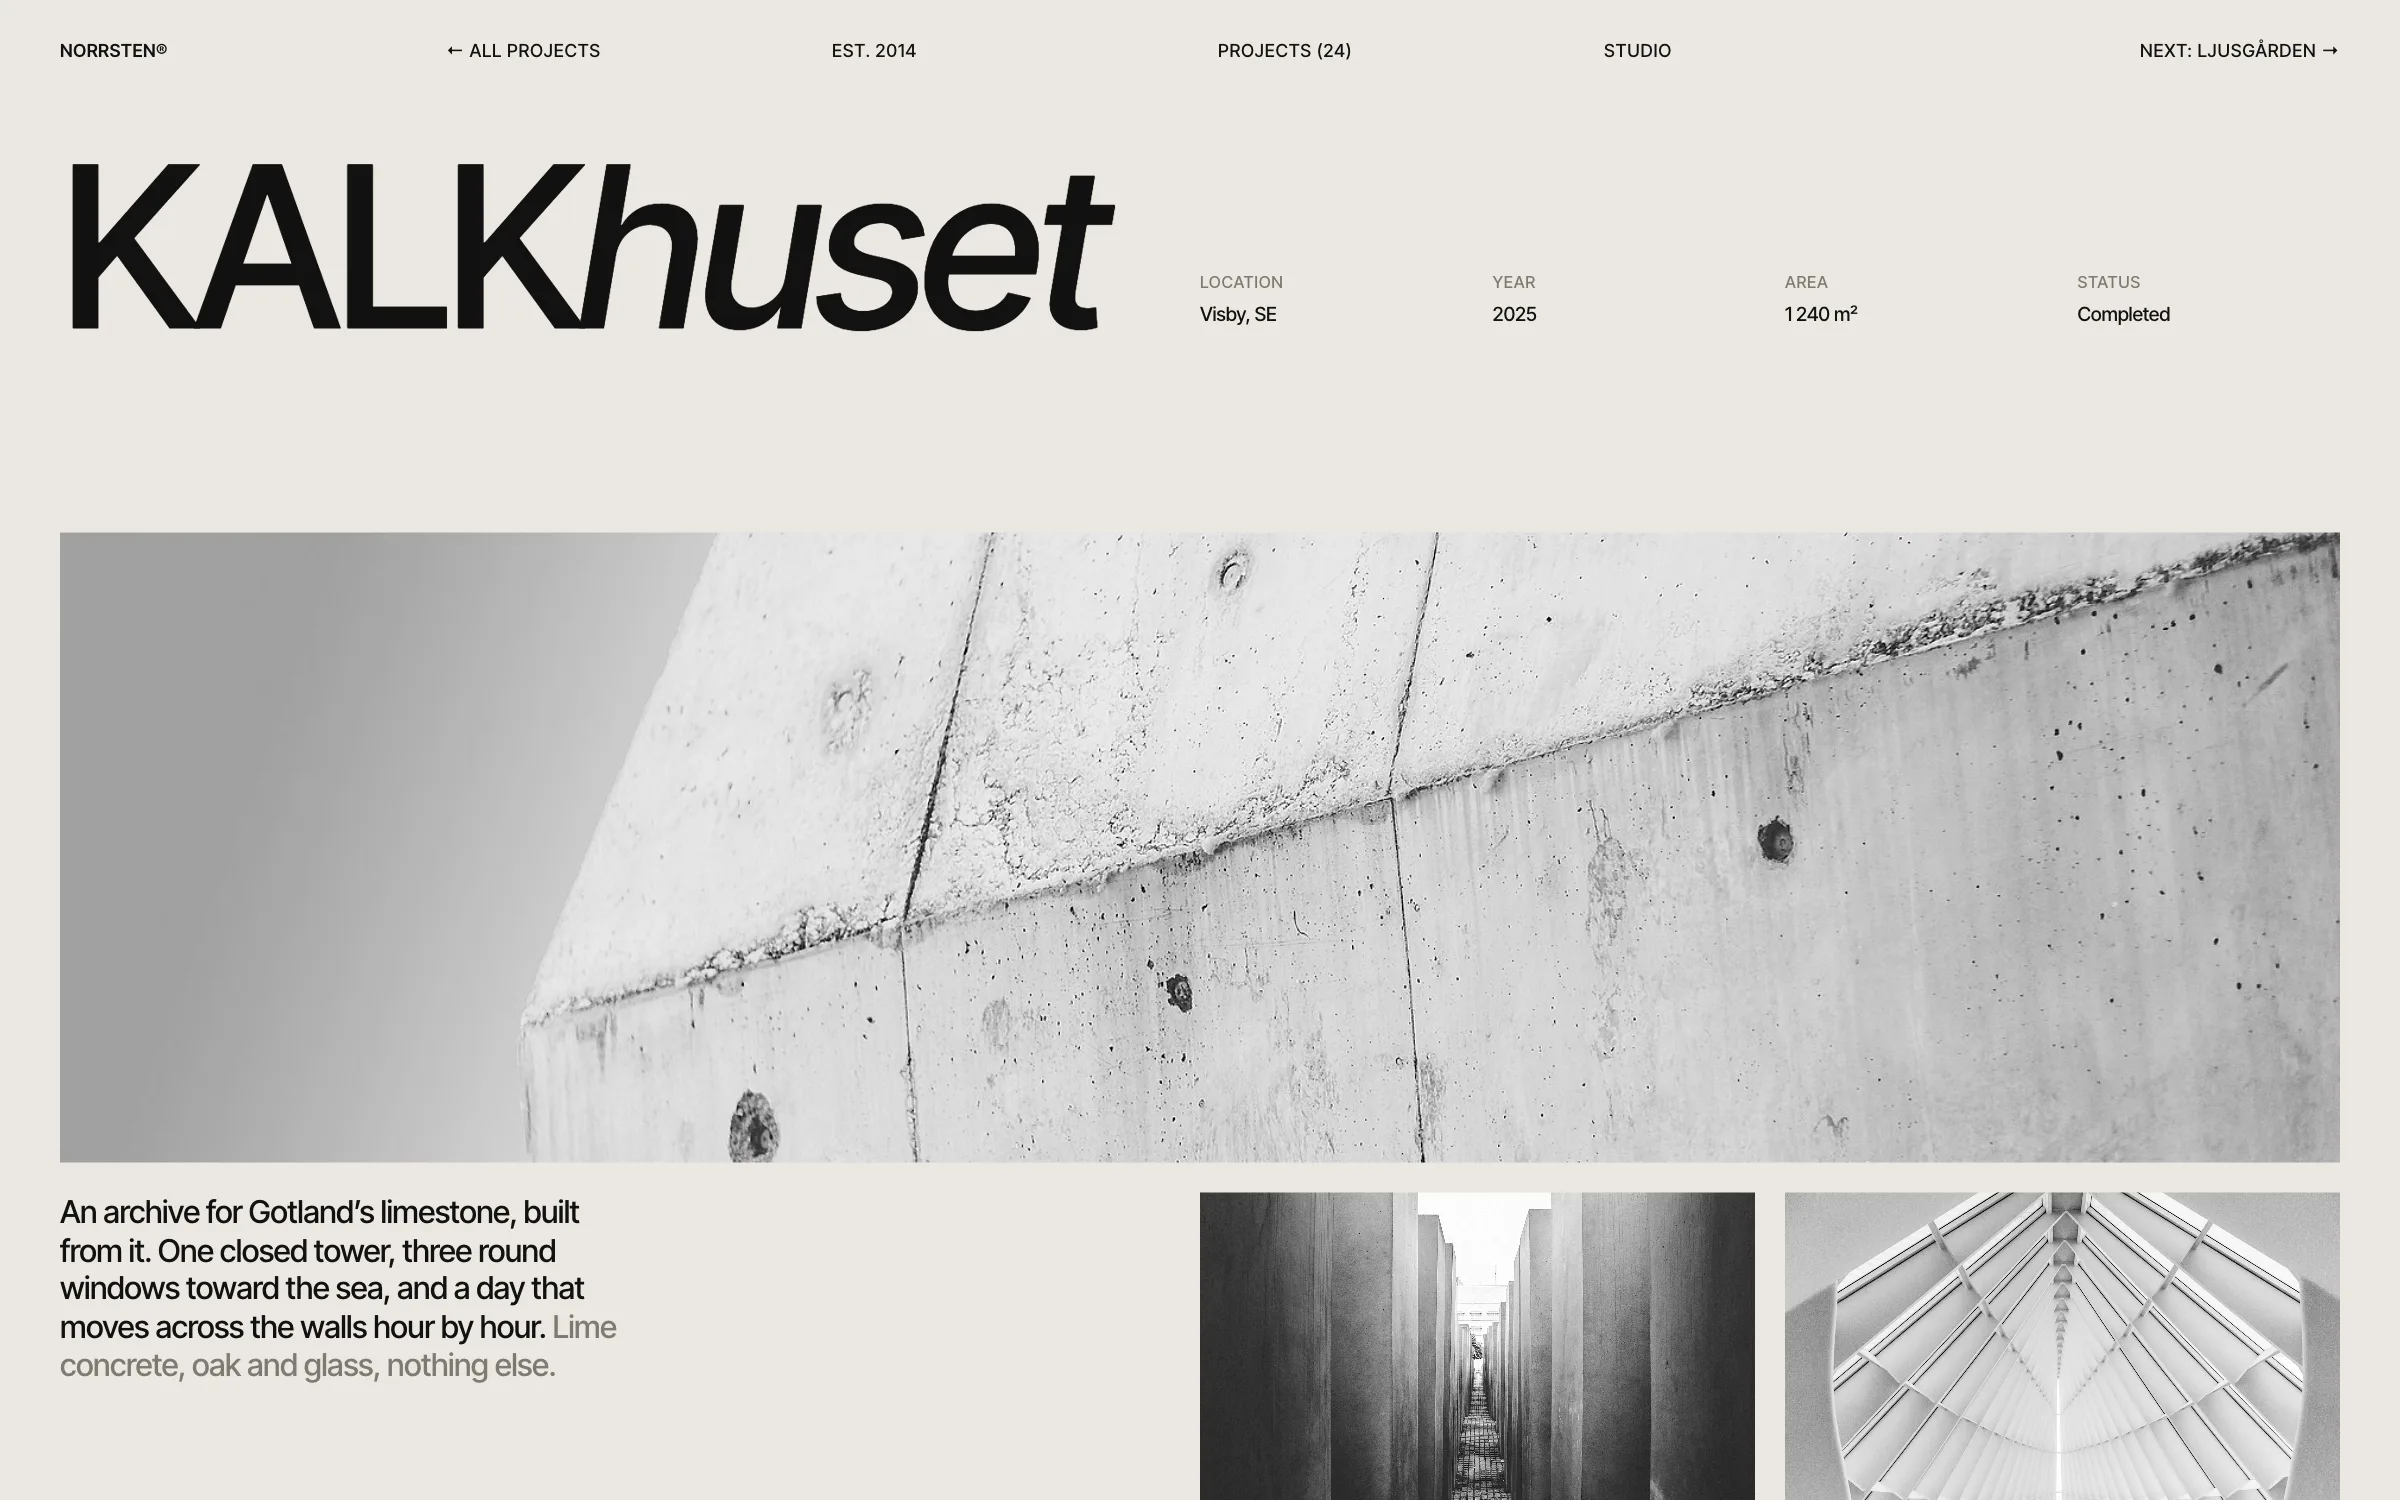
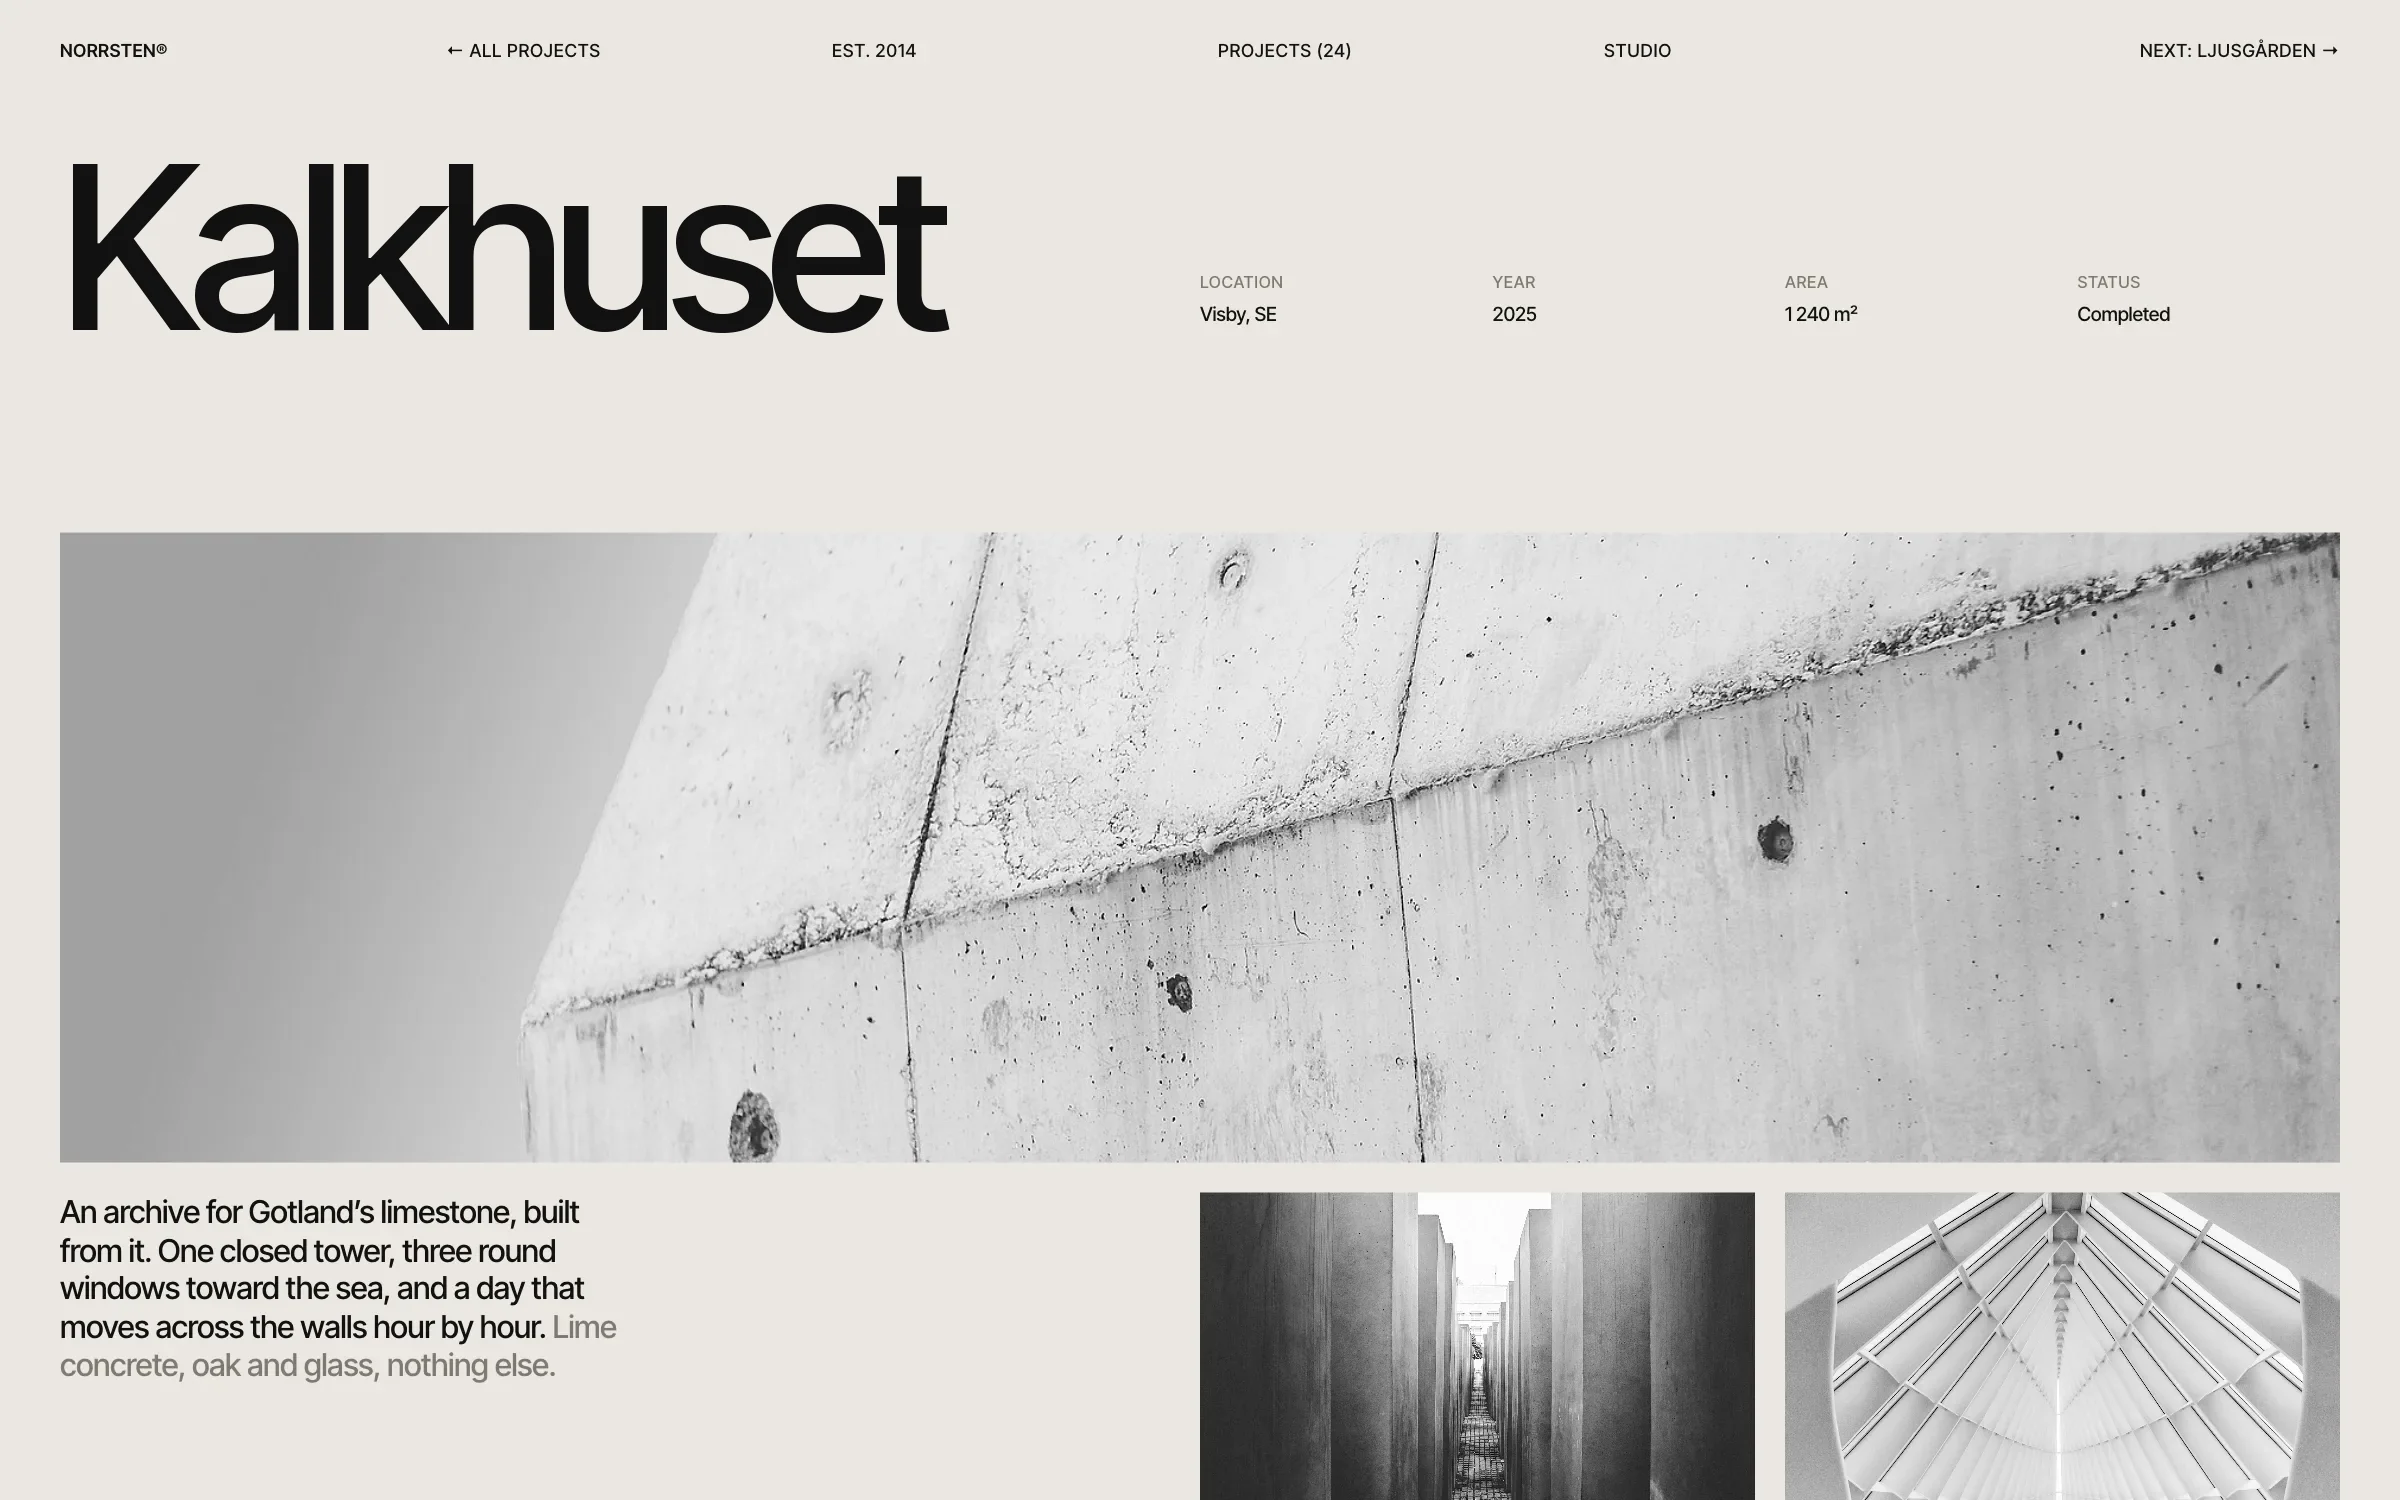
Portfolio v21: Norrsten headings set like Work

Changed region(s): [[0.0625, 0.092, 0.4688, 0.2453]]

diff --git a/work/norrsten/index.html b/work/norrsten/index.html
@@ -51,7 +51,7 @@
         </div>
         <div class="case__part">
           <h2 class="case__label">(The <em>idea</em>)</h2>
-          <p>Build the website the way Norrsten builds houses: few materials, chosen to last. Only black-and-white photography, warm paper instead of white, and one typeface throughout, set huge in tight capitals that turn negative where they cross an image, like light falling across stone.</p>
+          <p>Build the website the way Norrsten builds houses: few materials, chosen to last. Only black-and-white photography, warm paper instead of white, and one typeface throughout, set huge and tight in plain sentence case, turning negative where it crosses an image, like light falling across stone.</p>
         </div>
         <div class="case__part">
           <h2 class="case__label">(The <em>solution</em>)</h2>
@@ -65,23 +65,23 @@
     <!-- gallery (luke-baffait: thumbnails scroll past, the one in the middle grows and fills the big frame) -->
     <section class="case__gallery" aria-label="Images">
       <div class="case__thumbs"><div class="case__thumbs-in">
-        <button type="button" aria-label="Front page"><img src="../../assets/img/work/norrsten/01-home.webp?v=2" alt=""></button>
-        <button type="button" aria-label="Project index"><img src="../../assets/img/work/norrsten/02-projects.webp?v=2" alt=""></button>
-        <button type="button" aria-label="Project page"><img src="../../assets/img/work/norrsten/03-project.webp?v=2" alt=""></button>
-        <button type="button" aria-label="Process page"><img src="../../assets/img/work/norrsten/04-process.webp?v=2" alt=""></button>
-        <button type="button" aria-label="Phones"><img src="../../assets/img/work/norrsten/05-phones.webp?v=2" alt=""></button>
+        <button type="button" aria-label="Front page"><img src="../../assets/img/work/norrsten/01-home.webp?v=3" alt=""></button>
+        <button type="button" aria-label="Project index"><img src="../../assets/img/work/norrsten/02-projects.webp?v=3" alt=""></button>
+        <button type="button" aria-label="Project page"><img src="../../assets/img/work/norrsten/03-project.webp?v=3" alt=""></button>
+        <button type="button" aria-label="Process page"><img src="../../assets/img/work/norrsten/04-process.webp?v=3" alt=""></button>
+        <button type="button" aria-label="Phones"><img src="../../assets/img/work/norrsten/05-phones.webp?v=3" alt=""></button>
       </div></div>
       <figure class="case__sel">
-        <img src="../../assets/img/work/norrsten/01-home.webp?v=2" alt="Norrsten front page: STONE, LIGHT &amp; TIME over a black-and-white photograph">
-        <img src="../../assets/img/work/norrsten/01-home.webp?v=2" alt="" aria-hidden="true">
+        <img src="../../assets/img/work/norrsten/01-home.webp?v=3" alt="Norrsten front page: Built to last, set across a black-and-white photograph">
+        <img src="../../assets/img/work/norrsten/01-home.webp?v=3" alt="" aria-hidden="true">
       </figure>
       <!-- phones: the images one after another -->
       <div class="case__stack">
-        <img src="../../assets/img/work/norrsten/01-home.webp?v=2" alt="Front page" loading="lazy">
-        <img src="../../assets/img/work/norrsten/02-projects.webp?v=2" alt="Project index" loading="lazy">
-        <img src="../../assets/img/work/norrsten/03-project.webp?v=2" alt="Project page" loading="lazy">
-        <img src="../../assets/img/work/norrsten/04-process.webp?v=2" alt="Process page" loading="lazy">
-        <img src="../../assets/img/work/norrsten/05-phones.webp?v=2" alt="The site on phones" loading="lazy">
+        <img src="../../assets/img/work/norrsten/01-home.webp?v=3" alt="Front page" loading="lazy">
+        <img src="../../assets/img/work/norrsten/02-projects.webp?v=3" alt="Project index" loading="lazy">
+        <img src="../../assets/img/work/norrsten/03-project.webp?v=3" alt="Project page" loading="lazy">
+        <img src="../../assets/img/work/norrsten/04-process.webp?v=3" alt="Process page" loading="lazy">
+        <img src="../../assets/img/work/norrsten/05-phones.webp?v=3" alt="The site on phones" loading="lazy">
       </div>
     </section>
   </main>

diff --git a/index.html b/index.html
@@ -105,7 +105,7 @@
       <div class="wl">
         <div class="wl__list">
           <a class="wl__item" href="work/folierakoket/" data-img="assets/img/work/folierakoket/01-hero.webp" data-date="11 2026">Foliera Köket</a>
-          <a class="wl__item" href="work/norrsten/" data-img="assets/img/work/norrsten/01-home.webp?v=2" data-date="11 2026">Norrsten</a>
+          <a class="wl__item" href="work/norrsten/" data-img="assets/img/work/norrsten/01-home.webp?v=3" data-date="11 2026">Norrsten</a>
         </div>
         <div class="wl__preview" aria-hidden="true">
           <a class="wl__card" href="work/folierakoket/" tabindex="-1">
